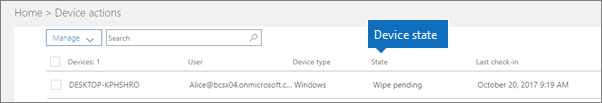
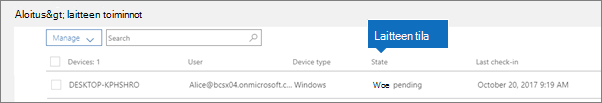
commit translated contents

Changed region(s): [[0.0, 0.0874, 0.2392, 0.2039], [0.598, 0.2913, 0.7475, 0.4078], [0.598, 0.7864, 0.6578, 0.8738]]

diff --git a/microsoft-365/business/device-states.md b/microsoft-365/business/device-states.md
@@ -25,17 +25,17 @@ search.appverid:
 - MET150
 - MOE150
 ms.assetid: c3ac23c5-d4b4-4b1b-b7ce-ea759521bf8c
-description: Lisätietoja laitteen eri muodoista on Microsoft 365 for Businessin hallintakeskuksen aloitussivun Laitetoiminnot-luettelossa.
-ms.openlocfilehash: e6f1b428413d094e0a1ce3afb026528074038736
-ms.sourcegitcommit: 53acc851abf68e2272e75df0856c0e16b0c7e48d
+description: Lue lisää laitteen eri muodoista hallintakeskuksen aloitussivun Laitetoiminnot-luettelosta Microsoft 365 for Businessissa.
+ms.openlocfilehash: 7b21781c5ae7b7df0fc610e46f776c0ea4563103d38b65d45b437c951426ea5b
+ms.sourcegitcommit: a1b66e1e80c25d14d67a9b46c79ec7245d88e045
 ms.translationtype: MT
 ms.contentlocale: fi-FI
-ms.lasthandoff: 04/02/2021
-ms.locfileid: "51578463"
+ms.lasthandoff: 08/05/2021
+ms.locfileid: "53837977"
 ---
 # <a name="device-states"></a>Laitteen tilat
 
-Tämä artikkeli koskee Microsoft 365 Business Premiumia.
+Tämä artikkeli koskee Microsoft 365 Business Premium.
 
 **Laitetoiminnot**-luettelon (hallintakeskuksen aloitussivu \> **Laitetoiminnot**) laitteilla voi olla seuraavat tilat.
   
@@ -43,16 +43,16 @@ Tämä artikkeli koskee Microsoft 365 Business Premiumia.
   
 |**Tila**|**Kuvaus**|
 |:-----|:-----|
-|Intunen hallitsema  <br/> |Microsoft 365 Business Premiumin hallinnoija.  <br/> |
-|Käytöstä poistaminen odottaa  <br/> |Microsoft 365 Business Premium on valmistautumassa poistamaan yritystiedot laitteesta.  <br/> |
+|Intunen hallitsema  <br/> |Hallinnoija Microsoft 365 Business Premium.  <br/> |
+|Käytöstä poistaminen odottaa  <br/> |Microsoft 365 Business Premium on valmis poistamaan yritystiedot laitteesta.  <br/> |
 |Käytöstä poistaminen on käynnissä  <br/> |Microsoft 365 Business Premium poistaa tällä hetkellä yritystietoja laitteesta.  <br/> |
 |Käytöstä poistaminen epäonnistui  <br/> | Yritystietojen poisto epäonnistui.  <br/> |
-|Käytöstä poistuminen peruutettu  <br/> |Käytöstä poistunut toiminto peruutettiin.  <br/> |
+|Käytöstä poistuminen peruutettu  <br/> |Käytöstä poistaminen on peruutettu.  <br/> |
 |Tyhjennys odottaa  <br/> |Tehdasasetusten palauttamista odotetaan.  <br/> |
 |Tyhjennys käynnissä  <br/> |Tehdasasetusten palautus on määritetty.  <br/> |
-|Tyhjennys epäonnistui  <br/> |Tehdasasetusten palauttaminen ei pystynyt.  <br/> |
-|Tyhjennys peruutettu  <br/> |Tehdasasetusten poisto peruutettiin.  <br/> |
+|Tyhjennys epäonnistui  <br/> |Tehdasasetusten palautusta ei voinut tehdä.  <br/> |
+|Tyhjennys peruutettu  <br/> |Tehdasasetusten tyhjennys peruutettiin.  <br/> |
 |Viallinen  <br/> |Toiminto odottaa (tai on käynnissä), mutta laite ei ole kuitattu sisään yli 30 päivään.  <br/> |
 |Poisto odottaa  <br/> |Poistotoimintoa odotetaan.  <br/> |
-|Tunnistettu  <br/> |Microsoft 365 Business Premium on havainnut laitteen.  <br/> |
+|Tunnistettu  <br/> |Microsoft 365 Business Premium on tunnistanut laitteen.  <br/> |
    

diff --git a/microsoft-365/business/microsoft-365-business-start.md b/microsoft-365/business/microsoft-365-business-start.md
@@ -28,12 +28,12 @@ search.appverid:
 - MET150
 ms.assetid: 496e690b-b75d-4ff5-bf34-cc32905d0364
 description: Lue Microsoft 365 yritysasiakkaista, sen määritämisistä ja käyttäjien laitteiden ja tietokoneiden valmisteleminen sen varmistamiseksi, että Microsoft 365 suojattu yritysasiakkaille.
-ms.openlocfilehash: 2ab0079da7a8f30d481cdb3d3dc6d165b4a19e99
-ms.sourcegitcommit: 0d1b065c94125b495e9886200f7918de3bda40b3
+ms.openlocfilehash: 3ac8ec3c831d14cfa6d0018340458b2b494b2dd746a7f2bd61d2eba0b4eaf0a1
+ms.sourcegitcommit: a1b66e1e80c25d14d67a9b46c79ec7245d88e045
 ms.translationtype: MT
 ms.contentlocale: fi-FI
-ms.lasthandoff: 07/08/2021
-ms.locfileid: "53339286"
+ms.lasthandoff: 08/05/2021
+ms.locfileid: "53837889"
 ---
 # <a name="get-started-with-microsoft-365-for-business"></a>Microsoft 365 käytön aloittaminen
 
